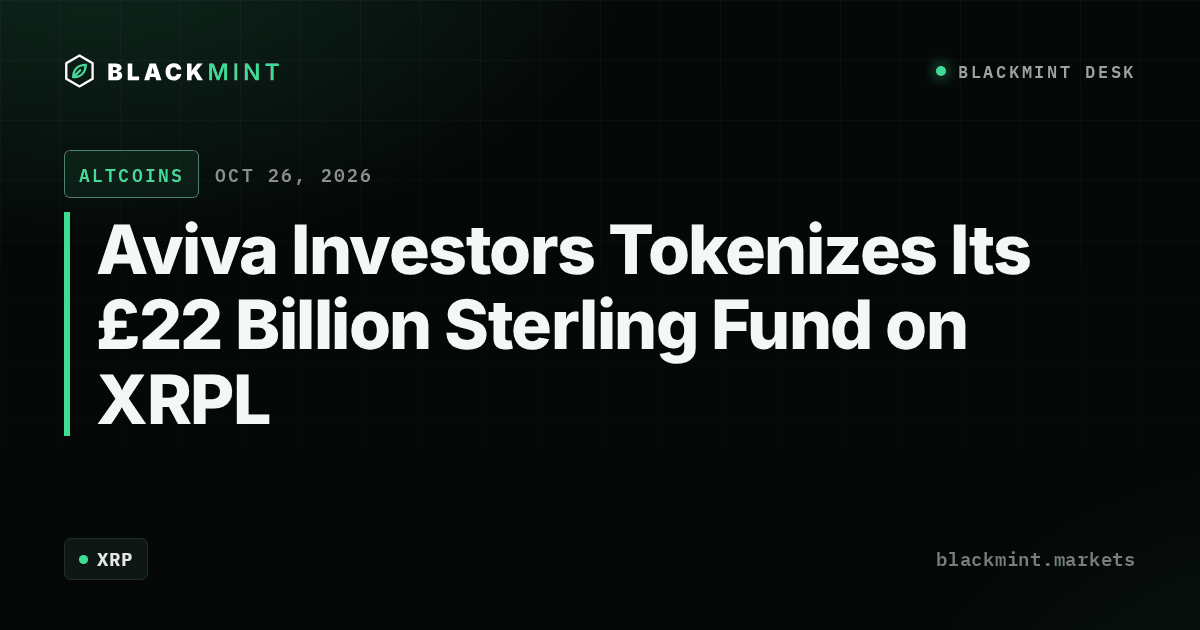
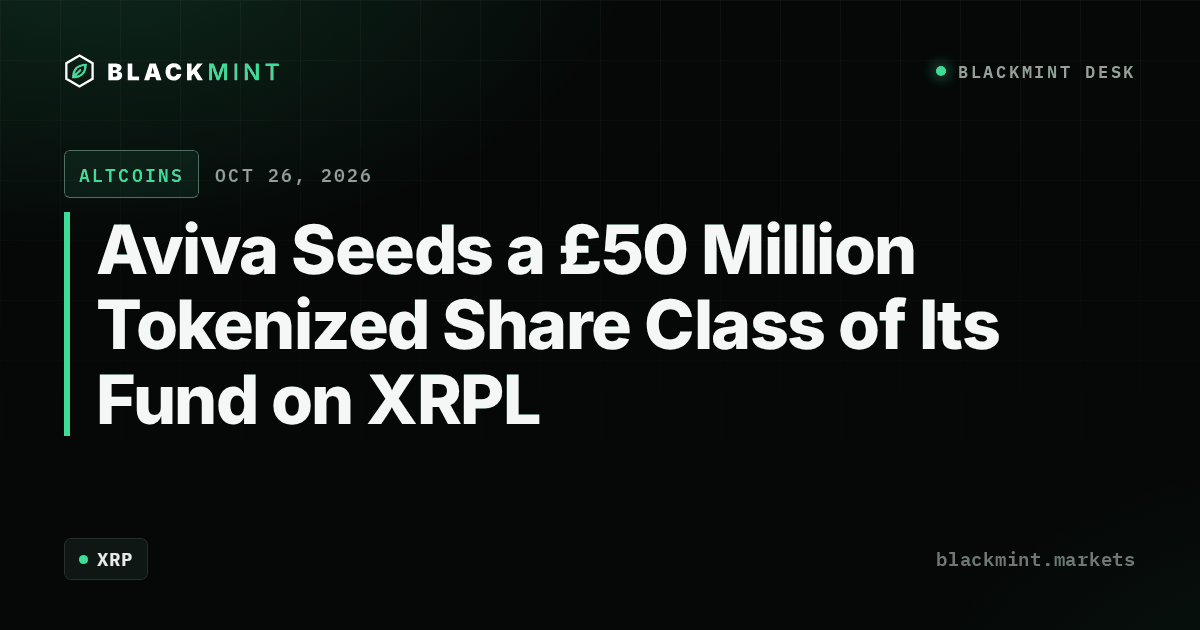
News 2026-10-26 21:12 ET: 16 live, +0 -0

Changed region(s): [[0.0617, 0.3317, 0.8633, 0.6937]]

diff --git a/news/aviva-tokenized-sterling-fund-xrpl/index.html b/news/aviva-tokenized-sterling-fund-xrpl/index.html
@@ -1,1 +1,1 @@
-<!doctype html><html lang="en"><head><meta charset="utf-8"><meta name="viewport" content="width=device-width,initial-scale=1"><title>Aviva Investors Tokenizes Its £22 Billion Sterling Fund on XRPL</title><meta name="description" content="Aviva put £50 million into the new on-chain share class, lifting its two tokenized money market funds past £86 million, the firm and Ripple said."><link rel="canonical" href="https://blackmint.markets/news/aviva-tokenized-sterling-fund-xrpl/"><meta property="og:type" content="article"><meta property="og:site_name" content="Blackmint"><meta property="og:title" content="Aviva Investors Tokenizes Its £22 Billion Sterling Fund on XRPL"><meta property="og:description" content="Aviva put £50 million into the new on-chain share class, lifting its two tokenized money market funds past £86 million, the firm and Ripple said."><meta property="og:url" content="https://blackmint.markets/news/aviva-tokenized-sterling-fund-xrpl/"><meta property="og:image" content="https://blackmint.markets/og/news/aviva-tokenized-sterling-fund-xrpl.png"><meta property="og:image:type" content="image/png"><meta property="og:image:width" content="1200"><meta property="og:image:height" content="630"><meta property="og:image:alt" content="Blackmint Desk · Altcoins · Aviva Investors Tokenizes Its £22 Billion Sterling Fund on XRPL"><meta name="twitter:card" content="summary_large_image"><meta name="twitter:title" content="Aviva Investors Tokenizes Its £22 Billion Sterling Fund on XRPL"><meta name="twitter:description" content="Aviva put £50 million into the new on-chain share class, lifting its two tokenized money market funds past £86 million, the firm and Ripple said."><meta name="twitter:image" content="https://blackmint.markets/og/news/aviva-tokenized-sterling-fund-xrpl.png"><meta name="twitter:image:alt" content="Blackmint Desk · Altcoins · Aviva Investors Tokenizes Its £22 Billion Sterling Fund on XRPL"><meta name="theme-color" content="#050807"><link rel="icon" href="/favicon.ico" sizes="16x16 32x32 48x48"><link rel="apple-touch-icon" href="/apple-touch-icon.png"><meta property="article:published_time" content="2026-10-26T15:59:10Z"><meta property="article:section" content="Altcoins"><script type="application/ld+json">{"@context": "https://schema.org", "@type": "NewsArticle", "headline": "Aviva Investors Tokenizes Its £22 Billion Sterling Fund on XRPL", "description": "Aviva put £50 million into the new on-chain share class, lifting its two tokenized money market funds past £86 million, the firm and Ripple said.", "datePublished": "2026-10-26T15:59:10Z", "author": {"@type": "Organization", "name": "Blackmint Desk"}, "publisher": {"@type": "Organization", "name": "Blackmint", "logo": {"@type": "ImageObject", "url": "https://blackmint.markets/icon-512.png"}}, "image": ["https://blackmint.markets/og/news/aviva-tokenized-sterling-fund-xrpl.png"], "mainEntityOfPage": "https://blackmint.markets/news/aviva-tokenized-sterling-fund-xrpl/"}</script><script>(function(){try{if(/bot|crawl|spider|slurp|facebookexternalhit|facebot|twitterbot|slackbot|whatsapp|telegram|discord|linkedin|pinterest|embedly|skype|vkshare|redditbot|applebot|google-?inspection|bingpreview|quora|outbrain|iframely|mastodon|bluesky|cardyb|snapchat|line\/|kakaotalk|viber|signal|preview/i.test(navigator.userAgent||''))return}catch(_){}location.replace("/#news/aviva-tokenized-sterling-fund-xrpl")})()</script><style>*{box-sizing:border-box}html,body{margin:0;background:#050807;color:#e8ecea;font:16px/1.5 Inter,system-ui,-apple-system,'Segoe UI',Roboto,sans-serif}main{max-width:680px;margin:0 auto;padding:40px 22px}img.lk{display:block;height:26px;width:auto;margin-bottom:34px}.k{font:600 12px ui-monospace,'IBM Plex Mono',monospace;letter-spacing:.12em;text-transform:uppercase;color:#3ddc97}h1{font-size:30px;line-height:1.2;margin:10px 0 14px;letter-spacing:-.01em}p{color:#a9b2ad;margin:0 0 26px}a.b{display:inline-block;background:#3ddc97;color:#04110b;font-weight:700;text-decoration:none;padding:12px 18px;border-radius:8px}small{display:block;margin-top:28px;color:#65716b;font-size:12px}</style></head><body><main><img class="lk" src="/og/lockup.svg" alt="Blackmint" width="140" height="22"><div class="k">Blackmint Desk · Altcoins · Oct 26, 2026</div><h1>Aviva Investors Tokenizes Its £22 Billion Sterling Fund on XRPL</h1><p>Aviva put £50 million into the new on-chain share class, lifting its two tokenized money market funds past £86 million, the firm and Ripple said.</p><a class="b" href="/#news/aviva-tokenized-sterling-fund-xrpl">Open in Blackmint →</a><small>Blackmint · blackmint.markets · Not financial advice.</small></main></body></html>
+<!doctype html><html lang="en"><head><meta charset="utf-8"><meta name="viewport" content="width=device-width,initial-scale=1"><title>Aviva Seeds a £50 Million Tokenized Share Class of Its Fund on XRPL</title><meta name="description" content="Aviva put £50 million into the new on-chain share class, lifting its two tokenized money market funds past £86 million, the firm and Ripple said."><link rel="canonical" href="https://blackmint.markets/news/aviva-tokenized-sterling-fund-xrpl/"><meta property="og:type" content="article"><meta property="og:site_name" content="Blackmint"><meta property="og:title" content="Aviva Seeds a £50 Million Tokenized Share Class of Its Fund on XRPL"><meta property="og:description" content="Aviva put £50 million into the new on-chain share class, lifting its two tokenized money market funds past £86 million, the firm and Ripple said."><meta property="og:url" content="https://blackmint.markets/news/aviva-tokenized-sterling-fund-xrpl/"><meta property="og:image" content="https://blackmint.markets/og/news/aviva-tokenized-sterling-fund-xrpl.png"><meta property="og:image:type" content="image/png"><meta property="og:image:width" content="1200"><meta property="og:image:height" content="630"><meta property="og:image:alt" content="Blackmint Desk · Altcoins · Aviva Seeds a £50 Million Tokenized Share Class of Its Fund on XRPL"><meta name="twitter:card" content="summary_large_image"><meta name="twitter:title" content="Aviva Seeds a £50 Million Tokenized Share Class of Its Fund on XRPL"><meta name="twitter:description" content="Aviva put £50 million into the new on-chain share class, lifting its two tokenized money market funds past £86 million, the firm and Ripple said."><meta name="twitter:image" content="https://blackmint.markets/og/news/aviva-tokenized-sterling-fund-xrpl.png"><meta name="twitter:image:alt" content="Blackmint Desk · Altcoins · Aviva Seeds a £50 Million Tokenized Share Class of Its Fund on XRPL"><meta name="theme-color" content="#050807"><link rel="icon" href="/favicon.ico" sizes="16x16 32x32 48x48"><link rel="apple-touch-icon" href="/apple-touch-icon.png"><meta property="article:published_time" content="2026-10-26T15:59:10Z"><meta property="article:section" content="Altcoins"><script type="application/ld+json">{"@context": "https://schema.org", "@type": "NewsArticle", "headline": "Aviva Seeds a £50 Million Tokenized Share Class of Its Fund on XRPL", "description": "Aviva put £50 million into the new on-chain share class, lifting its two tokenized money market funds past £86 million, the firm and Ripple said.", "datePublished": "2026-10-26T15:59:10Z", "author": {"@type": "Organization", "name": "Blackmint Desk"}, "publisher": {"@type": "Organization", "name": "Blackmint", "logo": {"@type": "ImageObject", "url": "https://blackmint.markets/icon-512.png"}}, "image": ["https://blackmint.markets/og/news/aviva-tokenized-sterling-fund-xrpl.png"], "mainEntityOfPage": "https://blackmint.markets/news/aviva-tokenized-sterling-fund-xrpl/"}</script><script>(function(){try{if(/bot|crawl|spider|slurp|facebookexternalhit|facebot|twitterbot|slackbot|whatsapp|telegram|discord|linkedin|pinterest|embedly|skype|vkshare|redditbot|applebot|google-?inspection|bingpreview|quora|outbrain|iframely|mastodon|bluesky|cardyb|snapchat|line\/|kakaotalk|viber|signal|preview/i.test(navigator.userAgent||''))return}catch(_){}location.replace("/#news/aviva-tokenized-sterling-fund-xrpl")})()</script><style>*{box-sizing:border-box}html,body{margin:0;background:#050807;color:#e8ecea;font:16px/1.5 Inter,system-ui,-apple-system,'Segoe UI',Roboto,sans-serif}main{max-width:680px;margin:0 auto;padding:40px 22px}img.lk{display:block;height:26px;width:auto;margin-bottom:34px}.k{font:600 12px ui-monospace,'IBM Plex Mono',monospace;letter-spacing:.12em;text-transform:uppercase;color:#3ddc97}h1{font-size:30px;line-height:1.2;margin:10px 0 14px;letter-spacing:-.01em}p{color:#a9b2ad;margin:0 0 26px}a.b{display:inline-block;background:#3ddc97;color:#04110b;font-weight:700;text-decoration:none;padding:12px 18px;border-radius:8px}small{display:block;margin-top:28px;color:#65716b;font-size:12px}</style></head><body><main><img class="lk" src="/og/lockup.svg" alt="Blackmint" width="140" height="22"><div class="k">Blackmint Desk · Altcoins · Oct 26, 2026</div><h1>Aviva Seeds a £50 Million Tokenized Share Class of Its Fund on XRPL</h1><p>Aviva put £50 million into the new on-chain share class, lifting its two tokenized money market funds past £86 million, the firm and Ripple said.</p><a class="b" href="/#news/aviva-tokenized-sterling-fund-xrpl">Open in Blackmint →</a><small>Blackmint · blackmint.markets · Not financial advice.</small></main></body></html>
